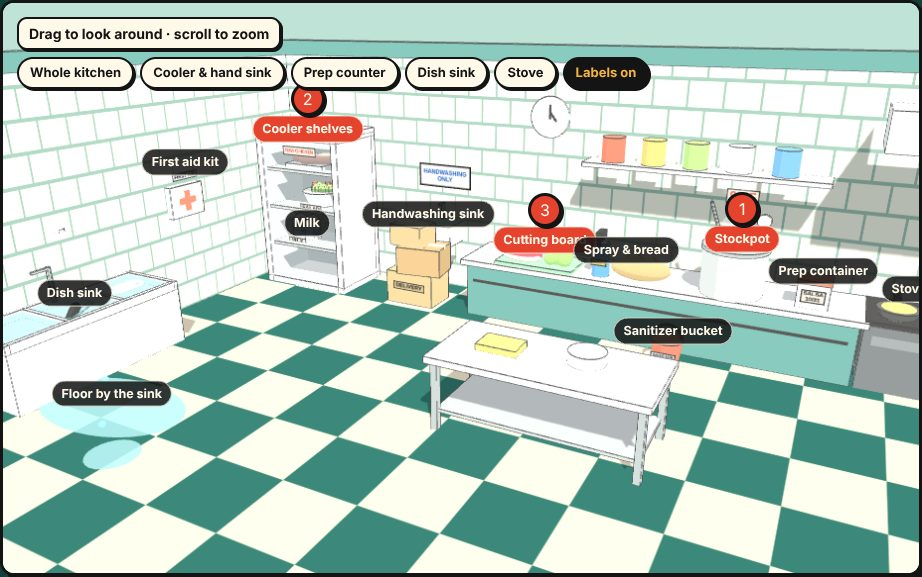
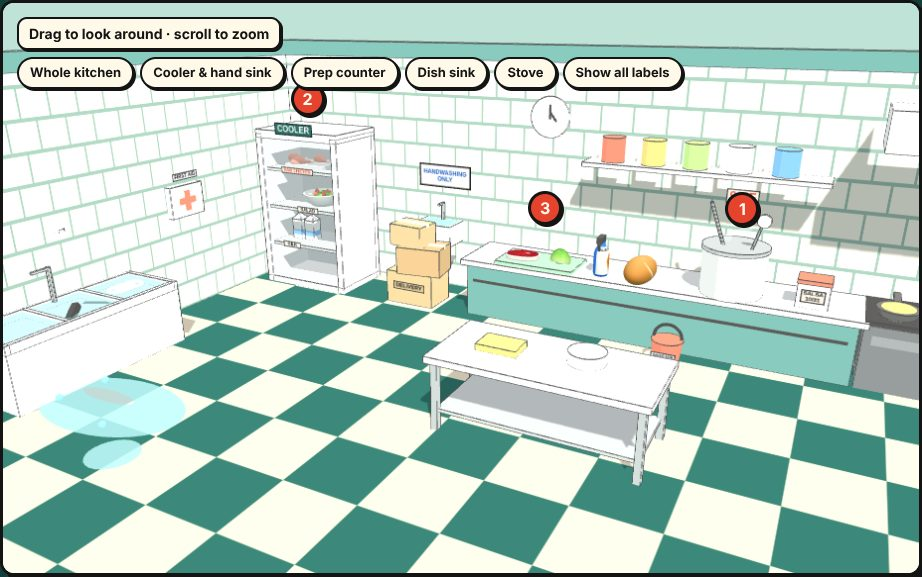
Add Sheet Studio image, refresh Line Check images and styles

diff --git a/assets/style.css b/assets/style.css
@@ -244,24 +244,16 @@ p{margin:0}
 .rt-corp{background:#1E3A5F;color:#F6F2EB}.rt-corp .k{color:#F2B04A}.rt-corp h3{font-family:"Bitter",Georgia,serif;font-size:1.9rem}.rt-corp p{color:#C9D3E2}
 .rt-corp::after{content:"";position:absolute;right:-30px;bottom:-30px;width:160px;height:160px;border-radius:50%;background:radial-gradient(circle,rgba(242,176,74,.35),transparent 70%)}
 .rt-play{background:#123F3A;color:#FFF9EA;border:3px solid #141414;box-shadow:6px 6px 0 #141414;border-radius:16px}.rt-play .k{color:#F3B53F}
-.rt-play h3{font-family:"Bagel Fat One","Arial Black",sans-serif;font-weight:400;font-size:2.2rem;color:#E5432D;-webkit-text-stroke:1.5px #141414;text-shadow:3px 3px 0 #141414;line-height:1}
+.rt-play h3{font-family:"Fredoka","Arial Rounded MT Bold",sans-serif;font-weight:700;font-size:2.3rem;color:#E5432D;-webkit-text-stroke:1.2px #141414;text-shadow:3px 3px 0 #141414;line-height:1}
 .rt-play p{color:#CFE7DE}
-.rt-3d{background:linear-gradient(180deg,#0B1020 0%,#1B2550 100%);color:#E8ECFF}.rt-3d .k{color:#8FE3FF}.rt-3d h3{font-family:"Figtree",sans-serif;font-weight:700;font-size:1.7rem;letter-spacing:-.01em}
-.rt-3d p{color:#AEB8E6}
-.rt-3d::before{content:"";position:absolute;left:-10%;right:-10%;bottom:-40%;height:80%;background-image:linear-gradient(rgba(143,227,255,.35) 1px,transparent 1px),linear-gradient(90deg,rgba(143,227,255,.35) 1px,transparent 1px);background-size:34px 34px;transform:perspective(320px) rotateX(62deg);transform-origin:50% 0;pointer-events:none}
-.rt-3d>*{position:relative}
 .rt-min{background:#FFFFFF;color:#111;border:1.5px solid #111}.rt-min .k{color:#111;font-family:"IBM Plex Mono",monospace;letter-spacing:.04em;text-transform:none;font-size:13px}
 .rt-min h3{font-family:"Figtree",sans-serif;font-weight:600;font-size:1.6rem;letter-spacing:-.02em}.rt-min p{color:#555}
-.rt-data{background:#FFF9EA;color:#141414;border:3px solid #141414}.rt-data .k{color:#141414;background:#F3B53F;align-self:flex-start;padding:3px 8px;border-radius:6px;border:2px solid #141414}
-.rt-data h3{font-family:"IBM Plex Mono",monospace;font-weight:500;font-size:1.45rem}
-.rt-data .mini{display:flex;gap:6px;align-items:flex-end;height:46px;margin-top:12px}
-.rt-data .mini i{flex:1;background:#E5432D;border:2px solid #141414;border-radius:4px 4px 0 0}
 @media (prefers-color-scheme:dark){.rt-min{background:#F4F4F2}}
 
 /* feature alt */
 .feature.alt{background:#123F3A;border:3px solid #141414;box-shadow:8px 8px 0 #141414;border-radius:18px}
 .feature.alt .body{color:#FFF9EA}
-.feature.alt h3{font-family:"Bagel Fat One","Arial Black",sans-serif;font-weight:400;color:#F3B53F;font-size:2.1rem;line-height:1.05}
+.feature.alt h3{font-family:"Fredoka","Arial Rounded MT Bold",sans-serif;font-weight:700;color:#F3B53F;font-size:2.1rem;line-height:1.05}
 .feature.alt .muted{color:#CFE7DE}
 .feature.alt .tag{background:#FFF9EA;color:#141414;border:2px solid #141414}
 .feature.alt .facts{border-top-color:rgba(255,255,255,.2)}.feature.alt .facts span{color:#CFE7DE}
@@ -297,3 +289,24 @@ p{margin:0}
 .feature.pulse .btn{background:#5B2A86;color:#fff}
 .feature.pulse .btn.ghost{background:#fff;color:#161A22;border-color:#E2E5EA}
 .rt-data p{margin-top:6px}
+
+.rt-data{background:#FFFFFF;color:#161A22;border:1px solid #E2E5EA;box-shadow:0 1px 2px rgba(22,26,34,.05),0 6px 20px rgba(22,26,34,.07)}
+.rt-data .k{color:#5B2A86}
+.rt-data h3{font-family:"Instrument Sans",system-ui,sans-serif;font-weight:700;font-size:1.7rem;letter-spacing:-.02em;display:flex;align-items:center;gap:10px}
+.rt-data h3 i{width:28px;height:28px;border-radius:7px;background:#5B2A86;display:grid;place-items:center}
+.rt-data p{color:#5A6272}
+.rt-data .spark{display:block;width:100%;height:40px;margin-top:14px}
+.rt-data .go{color:#5B2A86}
+.rt-sheet{background-color:#F6F7F2;color:#1C211C;border:1.5px solid #1C211C;border-radius:6px;box-shadow:5px 5px 0 #17603F;background-image:linear-gradient(#E3E8DD 1px,transparent 1px),linear-gradient(90deg,#E3E8DD 1px,transparent 1px);background-size:20px 20px}
+.rt-sheet .k{color:#17603F;font-family:"IBM Plex Mono",monospace;letter-spacing:.04em}
+.rt-sheet h3{font-family:"Archivo",system-ui,sans-serif;font-stretch:70%;font-weight:800;font-size:2rem;text-transform:uppercase;line-height:.95}
+.rt-sheet p{color:#4F5A50}
+.rt-sheet .go{color:#17603F}
+.feature.sheetf{background:#F6F7F2;border:1.5px solid #1C211C;box-shadow:8px 8px 0 #17603F;border-radius:6px;color:#1C211C}
+.feature.sheetf .media{background:#E3E8DD}
+.feature.sheetf h3{font-family:"Archivo",system-ui,sans-serif;font-stretch:70%;font-weight:800;text-transform:uppercase;font-size:2.3rem;color:#17603F;line-height:.95}
+.feature.sheetf .muted,.feature.sheetf .facts span{color:#4F5A50}
+.feature.sheetf .tag{background:#E3F0E8;color:#17603F;font-family:"IBM Plex Mono",monospace;font-weight:600}
+.feature.sheetf .facts{border-top-color:#D5DBD0}
+.feature.sheetf .btn{background:#17603F;color:#fff;border-radius:4px}
+.feature.sheetf .btn.ghost{background:#fff;color:#1C211C;border-color:#1C211C}
